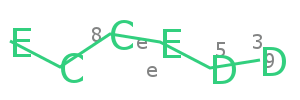
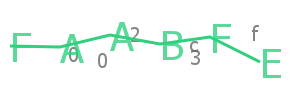
tested example.js and test.js

Changed region(s): [[0.03, 0.18, 0.96, 0.84], [0.48, 0.66, 0.54, 0.78]]

diff --git a/test.js b/test.js
@@ -1,7 +1,7 @@
-const Captcha = require("./");
+const { CaptchaGenerator } = require("./");
 const fs = require('fs');
 
-const captcha = new Captcha()
+const captcha = new CaptchaGenerator()
 new Promise(async (resolve, reject) => {
     fs.writeFileSync(`./assets/captcha/default.png`, await captcha.generate())
 })
